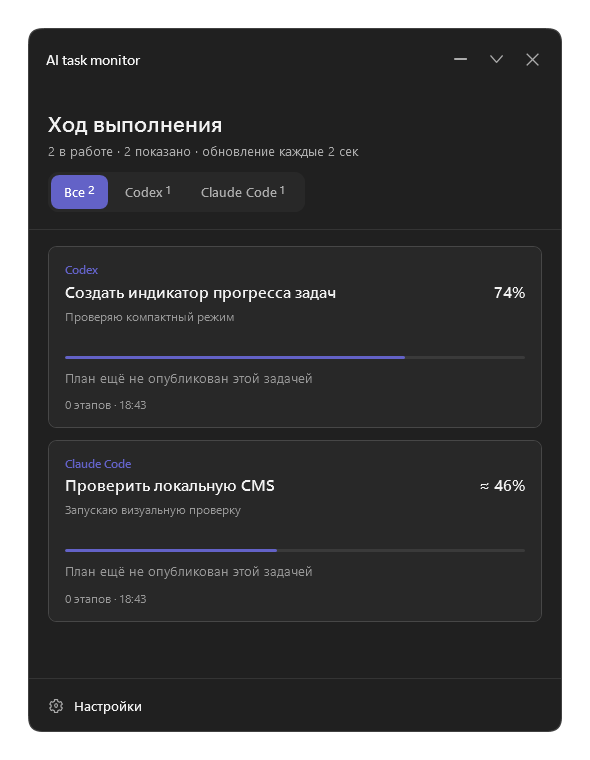
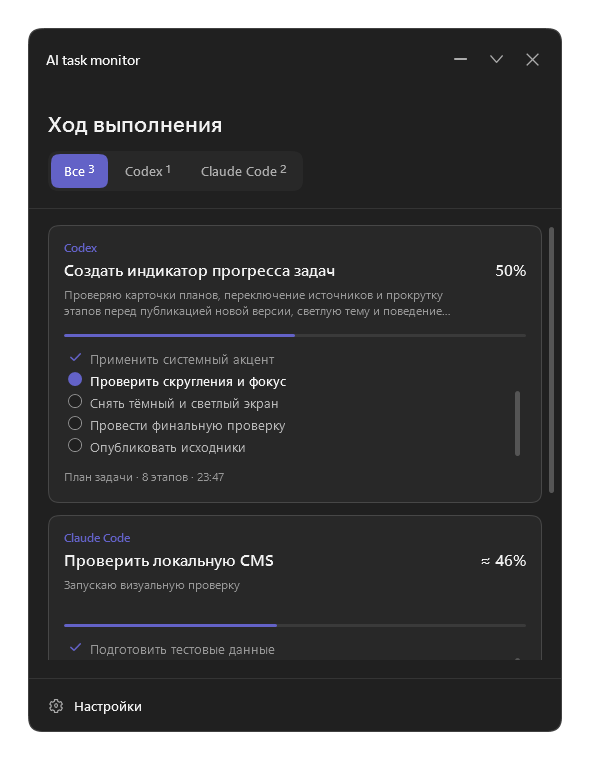
docs: publish alpha overview and screenshots

diff --git a/README.md b/README.md
@@ -2,11 +2,13 @@
 
 AI Task Monitor is an open-source desktop utility for viewing active Codex and Claude Code tasks in one compact window.
 
-The application shows the current action and displays progress only when it can be supported by available task data. Exact progress is shown as a number, estimated progress uses `≈`, and activity without a reliable estimate has no percentage. Settings are available only in the expanded window; compact mode is reserved for monitoring.
+The application shows the current action and displays progress only when it can be supported by available task data. When a task publishes a plan, AI Task Monitor shows completed, current, and upcoming steps, keeps five steps visible in each card, and lets the user scroll through the rest. Without a plan, the current activity remains visible, but step details and a reliable percentage may be unavailable.
+
+Exact progress is shown as a number, estimated progress uses `≈`, and activity without a reliable estimate has no percentage or progress bar. Settings are available only in the expanded window; compact mode is reserved for monitoring.
 
 ## Current status
 
-Version 0.2.0 alpha is under active review. No public installer is published yet.
+Version 0.2.0 alpha is under active review. An unsigned Windows 11 installer is published through GitHub Releases. Windows may show a SmartScreen warning because the executable does not yet have a trusted code-signing certificate.
 
 - `main` contains public documentation and reviewed screenshots.
 - `windows` contains the current Windows 11 implementation.
@@ -14,10 +16,10 @@ Version 0.2.0 alpha is under active review. No public installer is published yet
 
 ## Screenshots
 
-| Expanded | Compact |
-| --- | --- |
-| ![Expanded dark](screenshots/expanded-dark.png) | ![Compact dark](screenshots/compact-dark.png) |
-| ![Expanded light](screenshots/expanded-light.png) | ![Compact light](screenshots/compact-light.png) |
+| Expanded | Compact | Settings |
+| --- | --- | --- |
+| ![Expanded dark](screenshots/expanded-dark.png) | ![Compact dark](screenshots/compact-dark.png) | ![Settings dark](screenshots/settings-dark.png) |
+| ![Expanded light](screenshots/expanded-light.png) | ![Compact light](screenshots/compact-light.png) | ![Settings light](screenshots/settings-light.png) |
 
 The preview data in these screenshots is synthetic and contains no user task content.
 
@@ -31,7 +33,9 @@ AI Task Monitor is an independent project. It is not affiliated with, endorsed b
 
 ## Releases
 
-Installation packages will be published through GitHub Releases only after reproducible build checks, malware scanning, clean install/uninstall testing, and platform signing are complete.
+Download the current Windows alpha from [GitHub Releases](https://github.com/trueakaru-stack/ai-task-monitor/releases). Verify the SHA-256 value published with the release before running it.
+
+The current package is unsigned and intended for alpha testing. A signed public build still requires clean-machine installation and removal tests, malware scanning, and a trusted Windows code-signing certificate. No macOS installer exists yet because the macOS implementation has not been built.
 
 ## License
 
